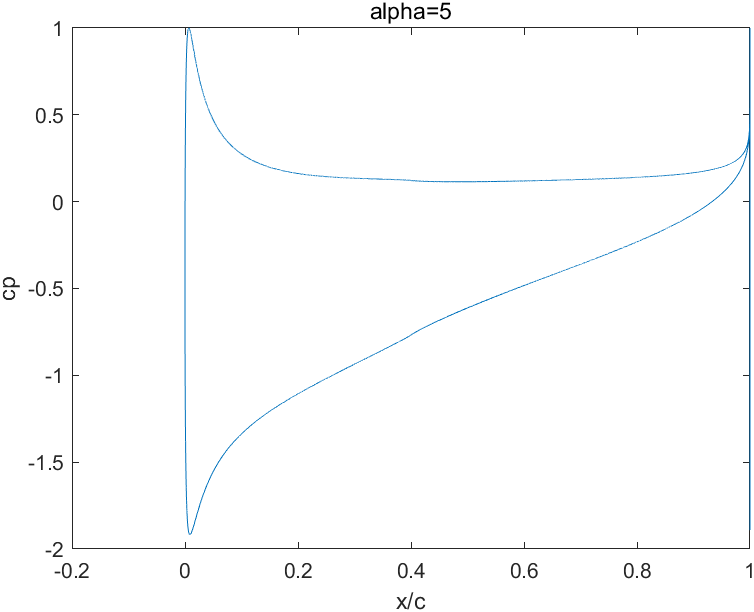
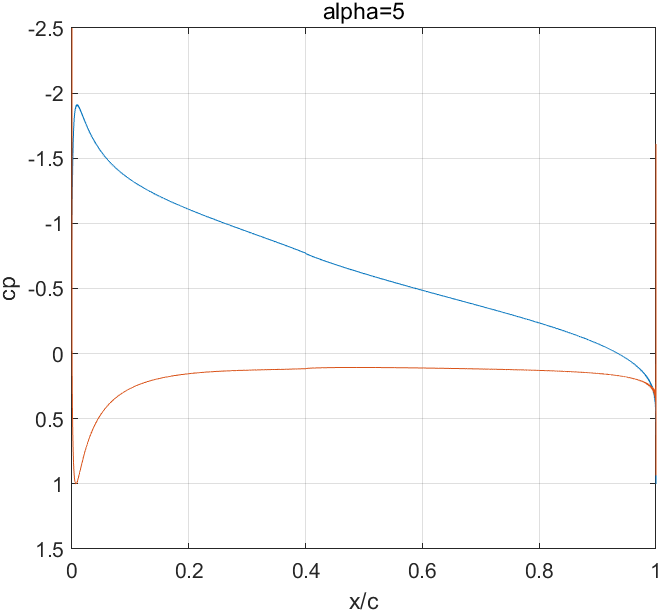
最终版

diff --git a/src/vortex_panel_method_gpu.m b/src/vortex_panel_method_gpu.m
@@ -3,13 +3,12 @@
 %cp 压强系数
 %l  升力
 %cl 升力系数
-%m  力矩
-%cm 力矩系数
+%x  x/c
 %输入数据
 %n  翼型号（4 5 6位）
 %alpha 攻角（°）,支持数组
 %c  弦长(m)
-%s  板块数的一半
+%s  上、下翼面板块数
 %v  来流速度
 function[cp,l,cl,x]=vortex_panel_method_gpu(n,alpha,c,s,v)
 

diff --git a/src/vortex_panel_method.m b/src/vortex_panel_method.m
@@ -3,13 +3,12 @@
 %cp 压强系数
 %l  升力
 %cl 升力系数
-%m  力矩
-%cm 力矩系数
+%x  x/c
 %输入数据
 %n  翼型号（4 5 6位）
 %alpha 攻角（°）,支持数组
 %c  弦长(m)
-%s  板块数的一半
+%s  上、下翼面板块数
 %v  来流速度
 function[cp,l,cl,x]=vortex_panel_method(n,alpha,c,s,v)
 

diff --git a/src/main.m b/src/main.m
@@ -2,7 +2,7 @@
 tic;
 
 n=2412;%你想计算的翼型，4,5,6位NACA均可
-alpha=[-3:2];%输入你想要的攻角（°）
+alpha=[5,6];%攻角 °
 s=1000;%上、下翼面的板块数量
 c=5;%弦长 m
 v=10;%速度 m/s

diff --git a/基于Matlab的涡板块法计算二维翼型气动.md b/基于Matlab的涡板块法计算二维翼型气动.md
@@ -121,13 +121,13 @@ C_{pi}=1-(\frac{V_{si}}{V_\infty})^2=1-(\frac{\gamma_i}{V_\infty})^2 \tag{16}
 $$
 
 
-## Matlab脚本实现
+## Matlab实现
 
 ### 源代码
 
 代码仓库：https://github.com/weilinyin/Vortex-Panel-Method-by-weilinyin
 
-实现了任意4,5,6位数NACA翼型在不同攻角、不同速度下压力系数$C_p$ 的分布与单位展长的升力$L'$ 、升力系数$c_l$ 的计算
+实现了低速无粘不可压流下，任意4,5,6位数NACA翼型在不同攻角、不同速度下压力系数$C_p$ 的分布与单位展长的升力$L'$ 、升力系数$c_l$ 的计算
 
 由于篇幅限制，这里仅给出核心计算函数vortex_panel_method.m
 
@@ -137,13 +137,12 @@ $$
 %cp 压强系数
 %l  升力
 %cl 升力系数
-%m  力矩
-%cm 力矩系数
+%x  x/c
 %输入数据
 %n  翼型号（4 5 6位）
 %alpha 攻角（°）,支持数组
 %c  弦长(m)
-%s  板块数的一半
+%s  上、下翼面板块数
 %v  来流速度
 function[cp,l,cl,x]=vortex_panel_method(n,alpha,c,s,v)
 
@@ -213,14 +212,7 @@ cl=2*l/(1.23*v^2*c);
 %升力系数
 
 cp=1-(Gamma./v).^2;
-for j=1:size(alpha,2)
-    for i=2:(2*s-1)
-        if abs(cp(i,j))>3
-            cp(i,j)=cp(i-1,j);
-        end
-    end
-end
-%压力系数，抑制尖峰
+%压力系数
 
 x=data(:,1)./c;
 %输出x/c
@@ -300,3 +292,4 @@ A=gather(A_gpu);%将数组转入内存
 
 ## 总结
 
+本文介绍了一种基于Matlab的涡板块法计算二维翼型气动的数值方法。该方法通过在翼型表面分布一系列涡线，并利用库塔-儒科夫斯基定理求解各涡线强度，进而计算出翼型表面的诱导速度和压力系数分布，最终得到翼型的升力系数。Matlab代码实现了任意NACA翼型在指定攻角和来流速度下的计算，同时给出了利用NVIDIA GPU加速求解的示例。结果显示，相较于CPU，GPU在求解大规模涡线时具有更高的计算速度。然而，GPU在处理大规模问题时可能存在显存不足的局限性。总的来说，本文提供了一种计算二维翼型气动的有效数值方法，并为后续研究提供了可扩展的计算框架。

diff --git a/README.md b/README.md
@@ -6,7 +6,7 @@
 
 ## 功能
 
-实现了任意4,5,6位NACA翼型在不同攻角、不同流速下压力系数、升力、升力系数的计算
+实现了低速无粘不可压流下，任意4,5,6位数NACA翼型在不同攻角、不同速度下压力系数$C_p$ 的分布与单位展长的升力$L'$ 、升力系数$c_l$ 的计算
 
 ## 使用方法
 
